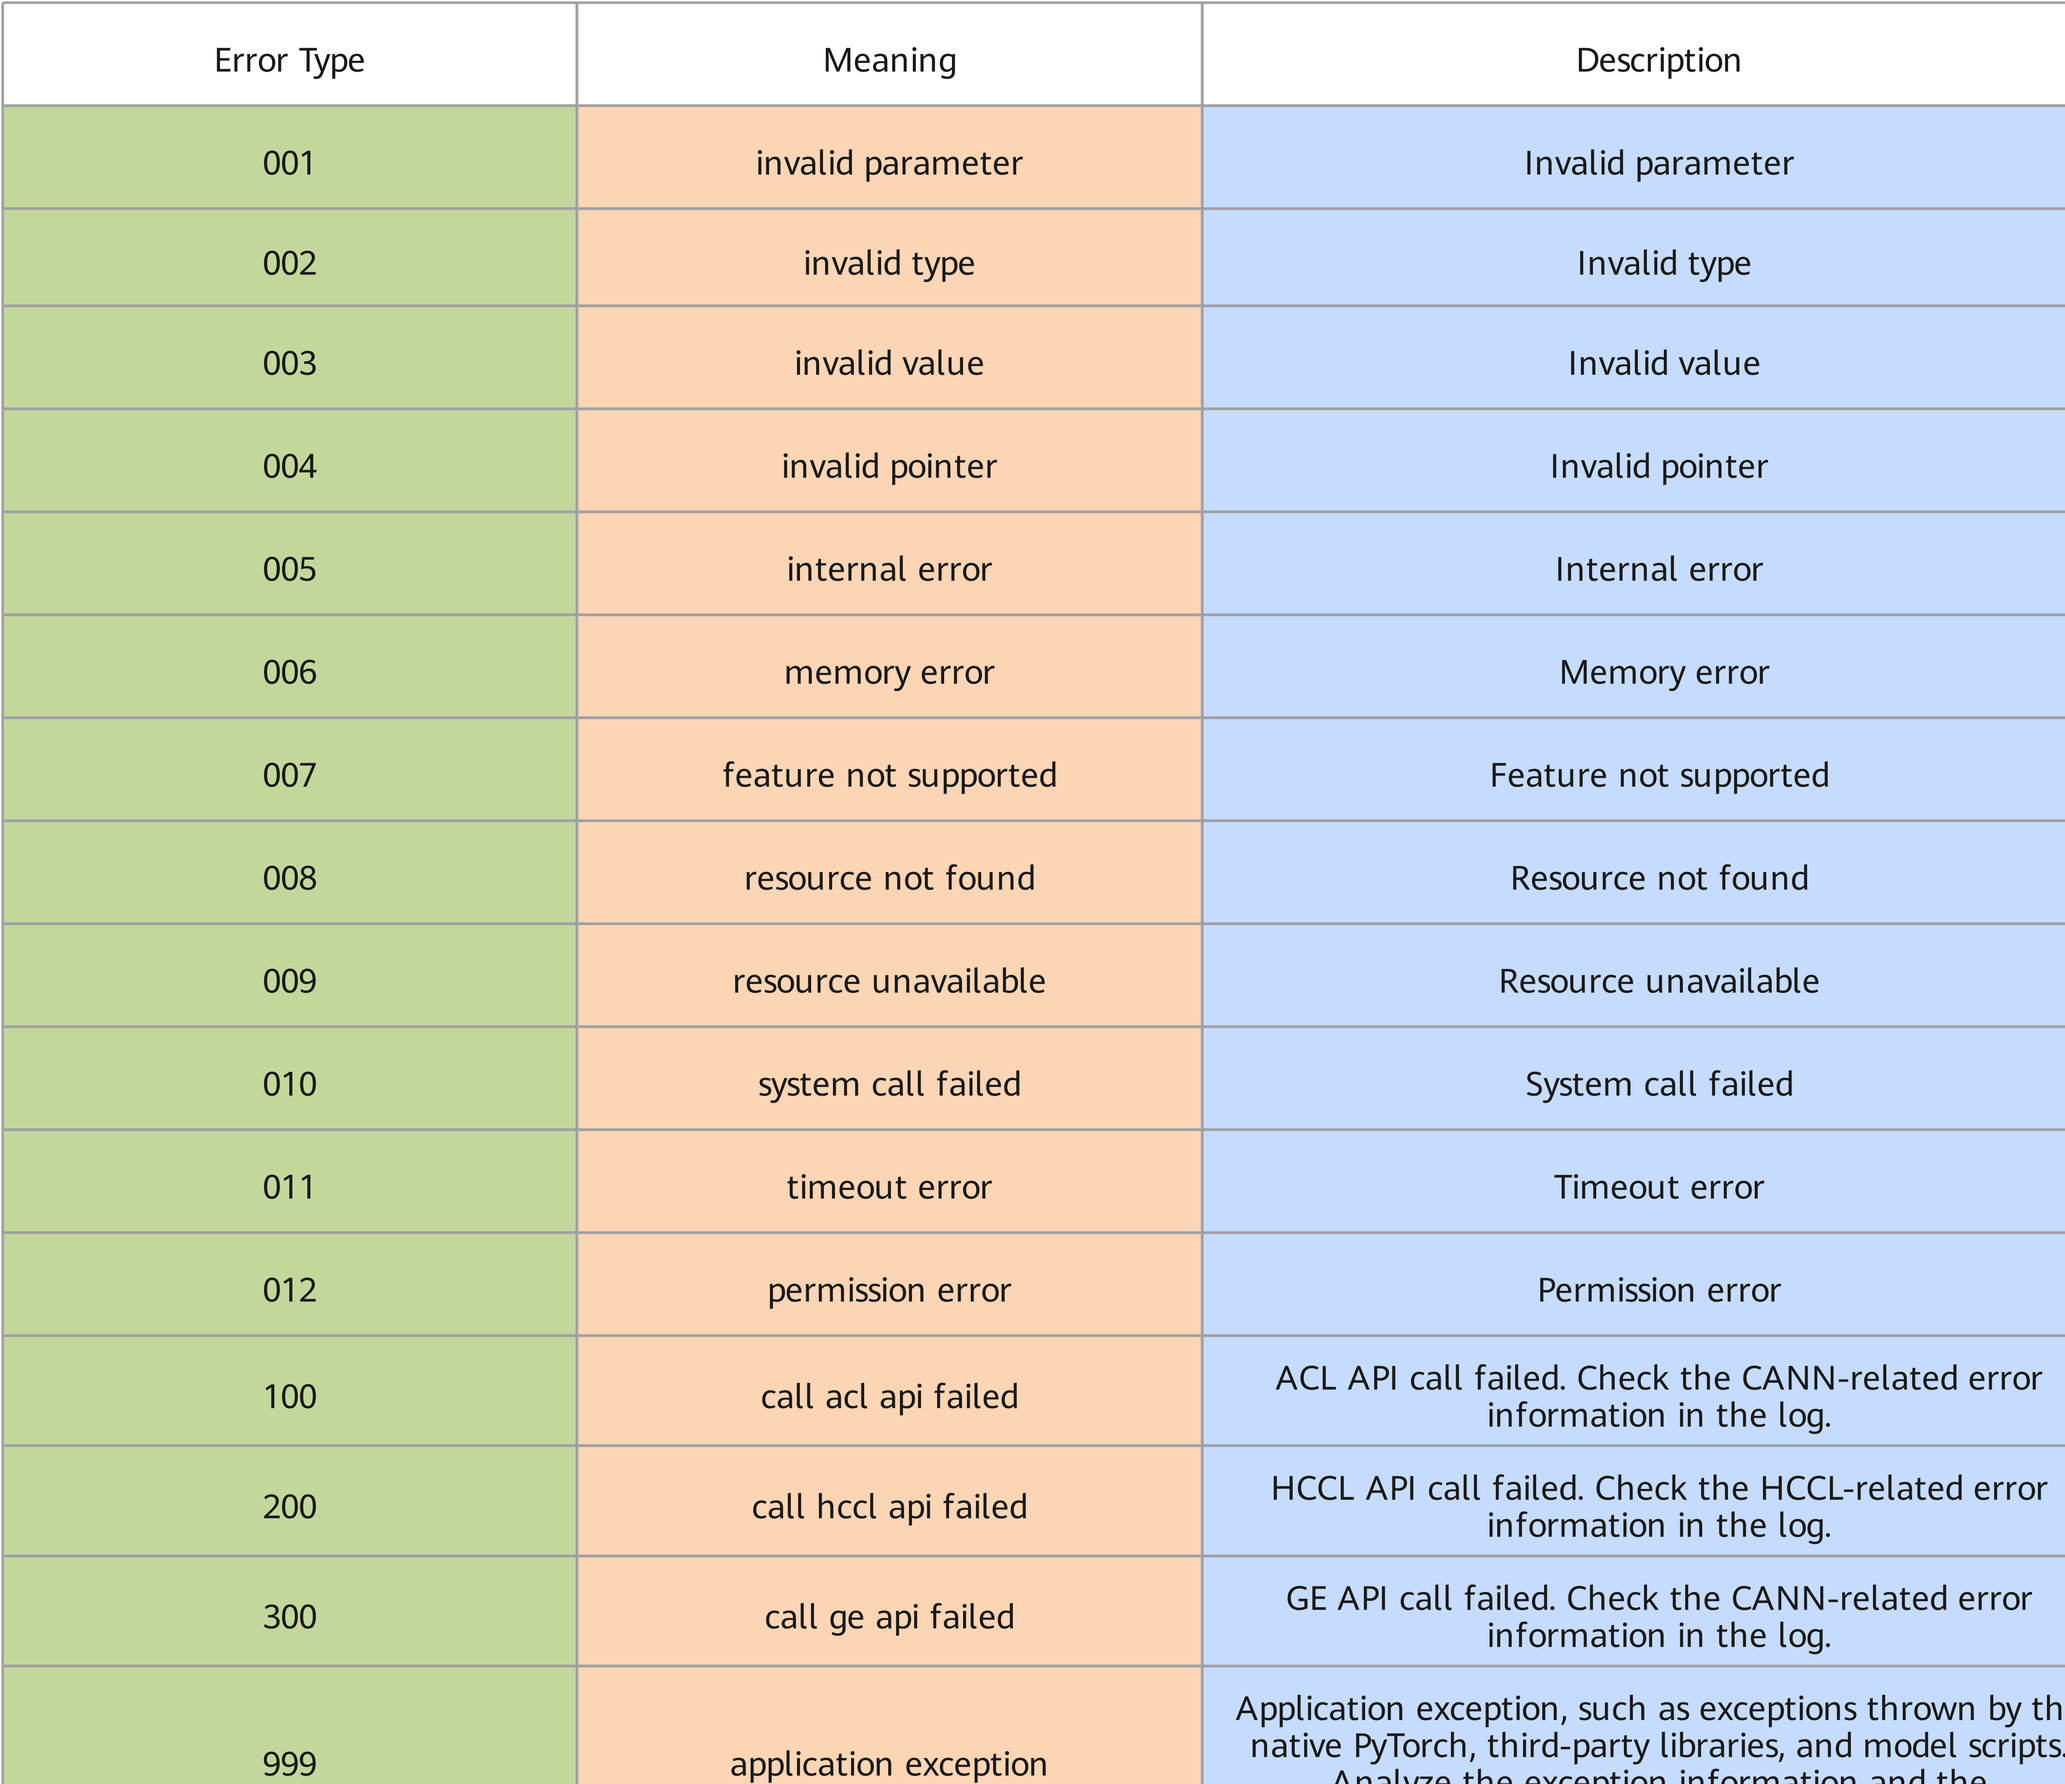
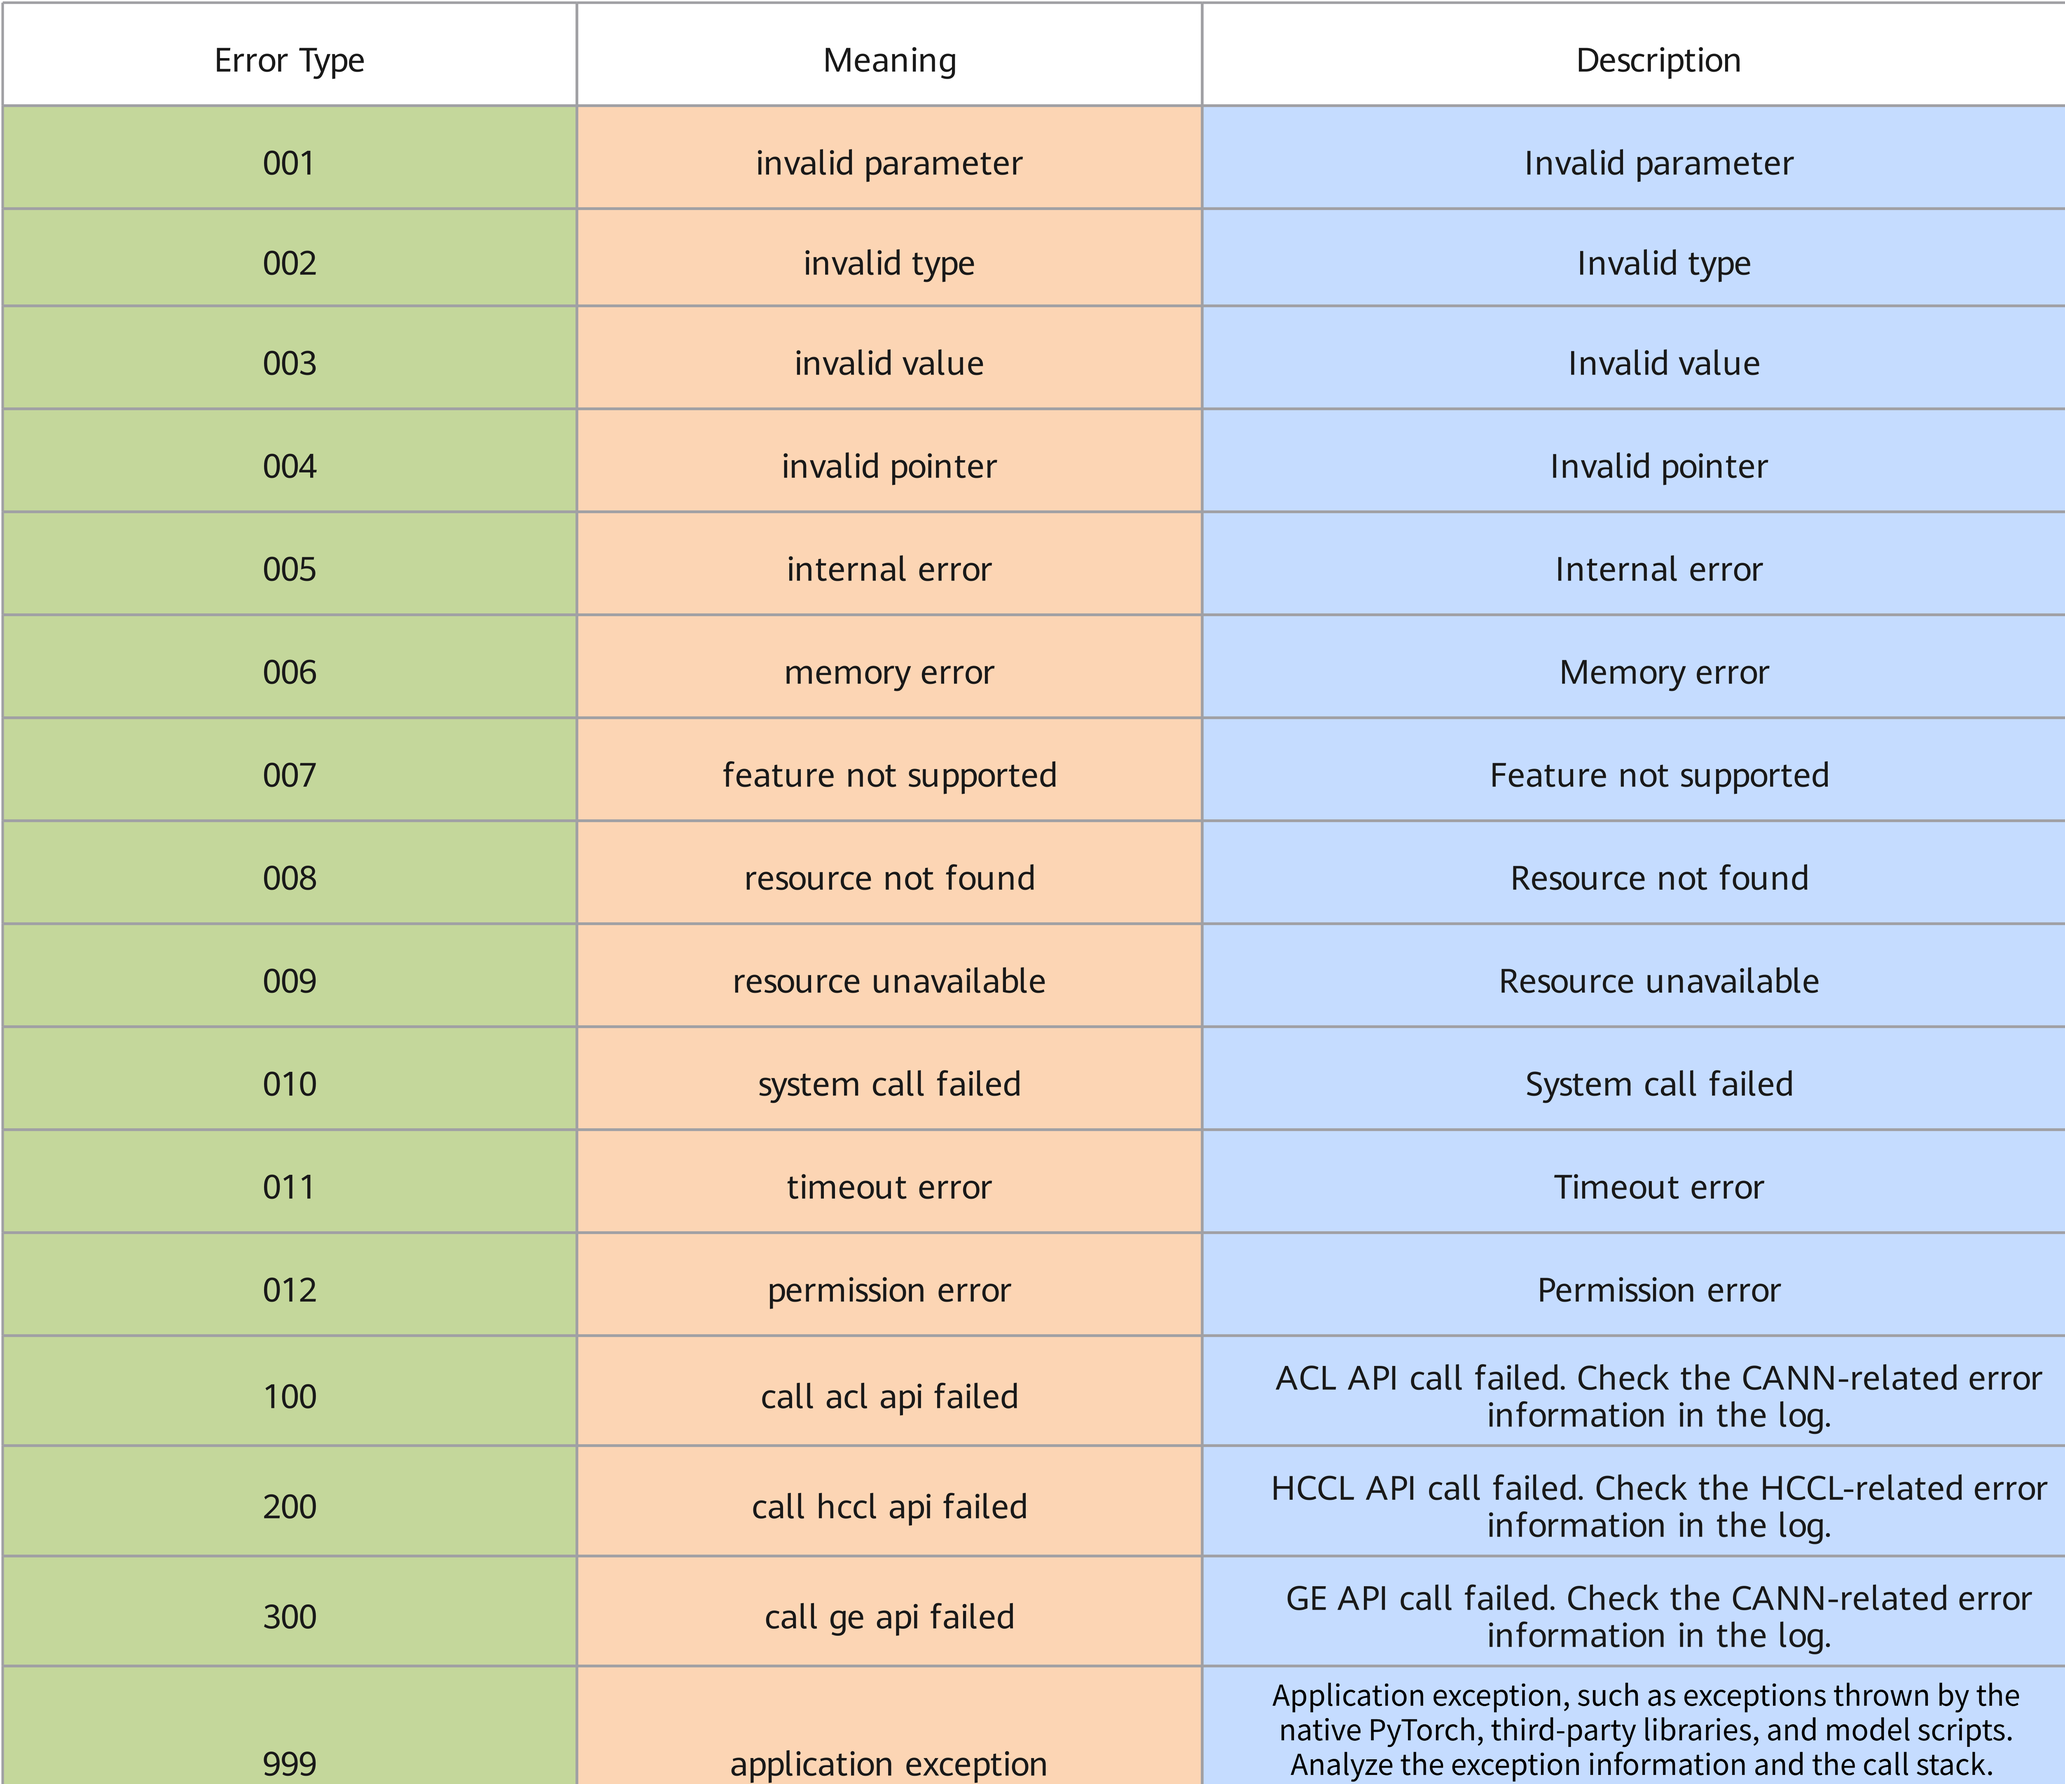
modify document
# message auto-generated for no-merge-commit merge:
!45642 merge v2.7.1-26.1.0 into v2.7.1-26.1.0

modify document

Created-by: m0_68000167
Commit-by: m0_68000167
Merged-by: ascend-robot
Description: <!--
PR描述模板更新日期：20260203
-->

# 【合入来源】
> <font color="red">**如有社区issue，请关联issue链接**</font>\
> <font color="red">**请勿携带内部流程信息（需求链接、问题单、内部issue等）**</font>

- [ ] 需求
- [ ] 问题单
- [x] issue/工单https://gitcode.com/Ascend/op-plugin/issues/320
- [ ] 重构优化
- [x] 资料更新

# 【修改方案】
doc-tool问题扫描修改

# 【资料变更】
涉及

# 【接口变更】
不涉及

# 【功能验证】
> 说明测试场景，测试方法。如果本次测试方式与常规单元测试不同，请详细说明您的测试步骤\
> 新增/变更内容是否已新增/适配UT测试用例看护，并补充测试自验证截图

# 【CheckList】
> PR提交人对以下CheckList自检项进行全量自检，自检通过或不涉及，均修改 [ ] 为 [x]

- [x] 代码注释完备，正确记录错误日志
- [x] 代码实现进行了返回值、空指针等校验
- [x] PR标题正确使用类型标签，如：feat、fix、refactor、docs、test等
- [x] PR持续集成流水线（CI）执行通过，代码检查无异常

See merge request: Ascend/pytorch!45642

Changed region(s): [[0.5913, 0.9351, 1.0, 1.0]]

diff --git a/docs/en/installation_guide/preparing_installation.md b/docs/en/installation_guide/preparing_installation.md
@@ -9,7 +9,6 @@ If you are performing training or online inference, complete the following pre-i
 > You are advised to use a non-root user to install and run programs, and to properly manage the permissions of the installation directory and files: set folder permissions to 750 and file permissions to 640. You can control the permissions of installed files by setting umask, for example, setting umask to 0027. For more security-related information, see the "File Permission Control" description for each component in the [Security Statement](../security_statement/security_statement.md).
 
 - Install the matching versions of the NPU driver and firmware and CANN software (Toolkit, ops, and NNAL), and configure CANN environment variables. For details, refer to the CANN Software Installation.
-<!-- [CANN Software Installation](https://www.hiascend.com/document/detail/en/CANNCommunityEdition/910/softwareinst/instg/instg_0000.html?OS=openEuler&InstallType=netyum) -->
 
     CANN software provides a process-level environment variable setting script. Before using the NPU to execute service code in training or inference scenarios, you must call this script. Otherwise, the service code cannot be executed.
 
@@ -23,3 +22,4 @@ If you are performing training or online inference, complete the following pre-i
 - In a container scenario, the source installation of the TorchNPU plugin involves obtaining community-provided base images, Python third-party libraries, and source code for compilation and use from external networks. For network issues such as proxy configuration, refer to the [Docker official documentation](https://docs.docker.com/engine/cli/proxy/).
 - Before installing the dependencies required by different types of operating systems, check whether the source is available under the installation user. For example, to configure the Huawei mirror source, refer to the configuration method for the corresponding mirror source on the [Huawei Open Source Mirror Site](https://mirrors.huaweicloud.com/).
 - Python 3.11 offers better scheduling (that is, dispatch) performance than Python 3.10. You are advised to use Python 3.11 or later.
+<!-- [CANN Software Installation](https://www.hiascend.com/document/detail/en/CANNCommunityEdition/910/softwareinst/instg/instg_0000.html?OS=openEuler&InstallType=netyum) 11行的修改点-->

diff --git a/docs/en/framework_feature_guide_pytorch/setting_HCCL_communicator_parameter.md b/docs/en/framework_feature_guide_pytorch/setting_HCCL_communicator_parameter.md
@@ -33,7 +33,6 @@ The following HCCL communication domain parameters can be configured:
     <!-- "[HCCL_RDMA_TC](https://www.hiascend.com/document/detail/zh/CANNCommunityEdition/910/commlib/hcclug/docs/zh/user_guide/hccl_env/HCCL_RDMA_TC.md)" -->
 
 - `hccl_op_expansion_mode`: Sets the expansion position of the communication algorithm. The default value is the value of the environment variable `HCCL_OP_EXPANSION_MODE`. If the environment variable `HCCL_OP_EXPANSION_MODE` is not set, the default value of this parameter is 0. For the parameter values and descriptions supported by different AI processor models, see the hcclOpExpansionMode parameter in the "HcclCommConfig" section in *CANN HCCL Communication Library*.
-<!-- "[HcclCommConfig](https://www.hiascend.com/document/detail/zh/CANNCommunityEdition/910/commlib/hcclug/docs/zh/api_ref/comm_mgr_c/data_type_definition/HcclCommConfig.md)" -->
 
     - 0: Represents the default expansion position of the communication algorithm.
     - 1: Represents that the expansion position of the communication algorithm is the CPU on the host side.
@@ -42,7 +41,7 @@ The following HCCL communication domain parameters can be configured:
 
     For details about the environment variable `HCCL_OP_EXPANSION_MODE`, see the "HCCL_OP_EXPANSION_MODE" section in *CANN HCCL Communication Library*.
 <!-- "[HCCL_OP_EXPANSION_MODE](https://www.hiascend.com/document/detail/zh/CANNCommunityEdition/910/commlib/hcclug/docs/zh/user_guide/hccl_env/HCCL_OP_EXPANSION_MODE.md)" -->
-
+<!-- "[HcclCommConfig](https://www.hiascend.com/document/detail/zh/CANNCommunityEdition/910/commlib/hcclug/docs/zh/api_ref/comm_mgr_c/data_type_definition/HcclCommConfig.md)" 35行-->
 ## Usage Examples
 
 Example of configuring `hccl_buffer_size`:

diff --git a/docs/en/troubleshooting/troubleshooting_process.md b/docs/en/troubleshooting/troubleshooting_process.md
@@ -43,6 +43,5 @@ This document uses various faults that developers may encounter during inference
     After troubleshooting, the key points of fault handling should be recorded, and preventive and improvement measures for such faults should be provided to avoid the recurrence of similar faults.
 
 > [!NOTE]  
-> You can also share fault handling cases on the Huawei Developer Community Forum to share your experience for other developers' reference, forming a virtuous cycle, enriching community content, and achieving mutual benefits.
+> You can also share fault handling cases on the [Huawei Developer Community Forum](https://www.hiascend.com/forum/) to share your experience for other developers' reference, forming a virtuous cycle, enriching community content, and achieving mutual benefits.
 > The third-party tools mentioned in the fault handling steps provided in this document (such as eseye u and Netron) are examples, not mandatory tools. Please refer to them or replace them with other similar tools based on your actual situation.
-<!-- > You can also share fault handling cases on the [Huawei Developer Community Forum](https://www.hiascend.com/forum/) to share your experience for other developers' reference, forming a virtuous cycle, enriching community content, and achieving mutual benefits. -->

diff --git a/docs/en/framework_feature_guide_pytorch/sample_call_opplugin.md b/docs/en/framework_feature_guide_pytorch/sample_call_opplugin.md
@@ -17,12 +17,12 @@ After completing the development of the adaptation plugin for the PyTorch framew
     - *26.1.0* is the TorchNPU software version.
 
 3. Before adapting the framework operator, ensure that CANN already has the corresponding operator implementation. For details, see the CANN Operator Library.
-<!-- [CANN Operator Library](https://www.hiascend.com/document/detail/zh/CANNCommunityEdition/910/API/aolapi/operatorlist_00001.html) -->
 
     > [!NOTE]
     >
     > The CANN operator corresponding to this example is `aclnnAdd`. For details, see the "NN Operator Interface" section in the CANN Operator Library.
 <!-- "[NN Operator Interface](https://www.hiascend.com/document/detail/zh/CANNCommunityEdition/910/API/aolapi/context/ops-math/aclnnAdd&aclnnInplaceAdd.md)" -->
+<!-- [CANN Operator Library](https://www.hiascend.com/document/detail/zh/CANNCommunityEdition/910/API/aolapi/operatorlist_00001.html) 19行-->
 
 ## Adaptation Development
 

diff --git a/docs/en/torch_compile/pytorch_inductor_desc.md b/docs/en/torch_compile/pytorch_inductor_desc.md
@@ -14,7 +14,7 @@ The Inductor backend supports three operator compilers, which can be selected ba
 
 > [!NOTICE]
 >
-> The Inductor backend requires the latest version of the Triton-Ascend dependency package. For details, see the Triton-Ascend Documentation.<br>
+> Install Triton Ascend v3.2.2 before using the inductor backend.For details, see [Triton Ascend Installation Guide](https://triton-ascend.readthedocs.io/en/v3.2.2/installation_guide.html).<br>
 > When using MLIR mode or DVM mode, the Inductor backend requires an additional Torch-MLIR dependency package, which can be downloaded from the [Torch-MLIR Archive](https://repo.oepkgs.net/ascend/pytorch/vllm/torch/).<br>
 > Before importing torch, you can also select the compiler mode via the `TORCHINDUCTOR_NPU_BACKEND` environment variable. For details, see [TORCHINDUCTOR_NPU_BACKEND](../environment_variable_reference/TORCHINDUCTOR_NPU_BACKEND.md).
 

diff --git a/docs/en/installation_guide/uninstallation.md b/docs/en/installation_guide/uninstallation.md
@@ -99,7 +99,7 @@ There is no required order for uninstalling the driver and firmware. The procedu
 
     > [!NOTE]
     >
-    > _<install_path>_ indicates the software package installation path. You can run the **cat /etc/ascend_install.info** command to query the installation path. Replace it based on the actual situation.
+    > _<install\_path\>_ indicates the software package installation path. You can run the **cat /etc/ascend_install.info** command to query the installation path. Replace it based on the actual situation.
 
 4. Decide whether to restart the server based on the system prompt. If a system restart is required, run the following command; otherwise, skip this step.
 
